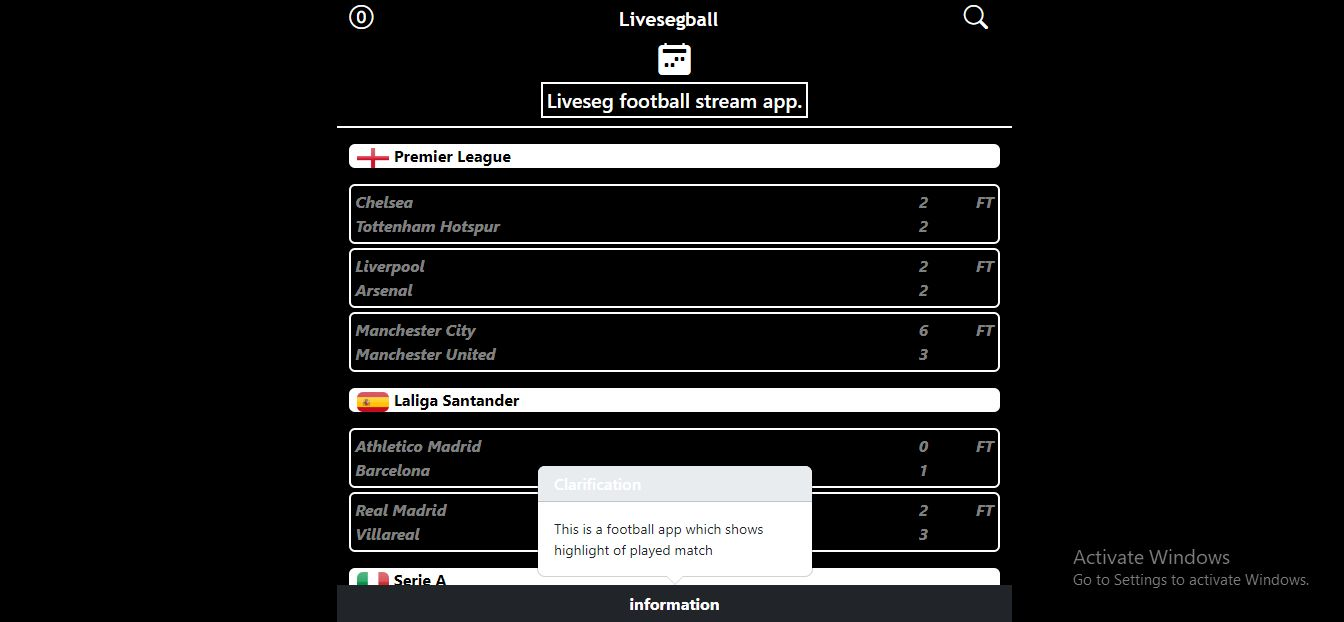
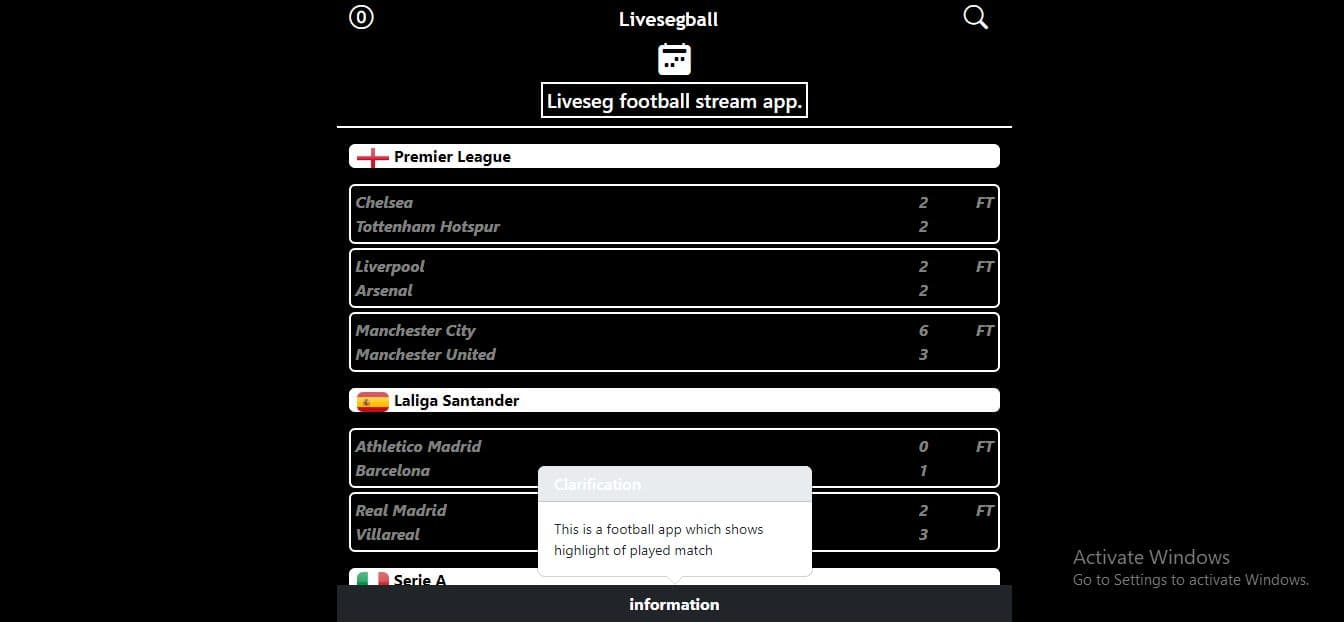
updated the product images

diff --git a/src/components/projects/ProjectsTemplate.jsx b/src/components/projects/ProjectsTemplate.jsx
@@ -7,7 +7,7 @@ const ProjectsTemplate = ({ projectsArray }) => {
       {projectsArray.map(({ id, project_image, project_topic, project_text, project_github, project_link, project_stack }) => {
         return (
           <div key={id} className="flex flex-col bg-grey-semidark shadow-xl rounded-2xl overflow-hidden">
-            <img src={project_image} alt={project_topic.toUpperCase()} className="w-full h-36 md:h-56 lg:h-52" />
+            <img src={project_image} loading="eager" alt={project_topic.toUpperCase()} className="w-full h-36 md:h-56 lg:h-52" />
             <section className="flex flex-col flex-1 p-4 md:p-6 lg:p-4">
               <h1 className="capitalize font-bold text-base md:text-2xl lg:text-xl text-white font-Yantramanav">{project_topic}</h1>
               <div className="my-4 md:my-6 lg:my-4 flex-1"><p className="text-xs md:text-lg lg:text-base limit-text-line text-grey-textdark font-Roboto">{project_text}</p></div>

diff --git a/src/pages/ProjectsPage.jsx b/src/pages/ProjectsPage.jsx
@@ -1,10 +1,8 @@
 import { FaAngleLeft, FaAngleRight } from "react-icons/fa6";
-import link_hack from "../assets/projects/link-hack.png";
-import akinia from "../assets/projects/akinia.jpg";
-import calor_stiches from "../assets/projects/calor-stiches.png";
-import kin_website from "../assets/projects/kin-website.png";
+import link_hack from "../assets/projects/link-hack.jpg";
+import calor_stiches from "../assets/projects/calor-stiches.jpg";
 import liveseg from "../assets/projects/liveseg.jpg";
-import music_player from "../assets/projects/music-player.png";
+import music_player from "../assets/projects/music-player.jpg";
 import PageMain from "../components/layout/PageMain";
 import ProjectsPaginationButton from "../components/projects/ProjectsPaginationButton";
 import ProjectsTemplate from "../components/projects/ProjectsTemplate";
